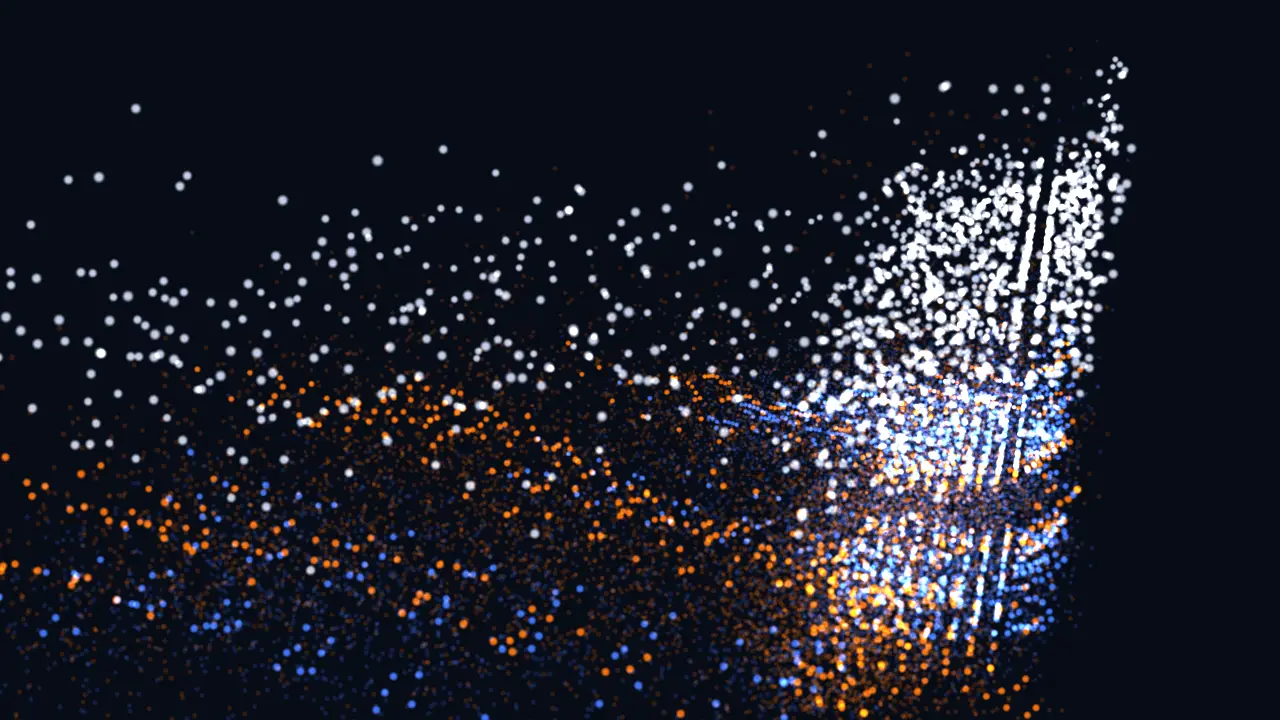
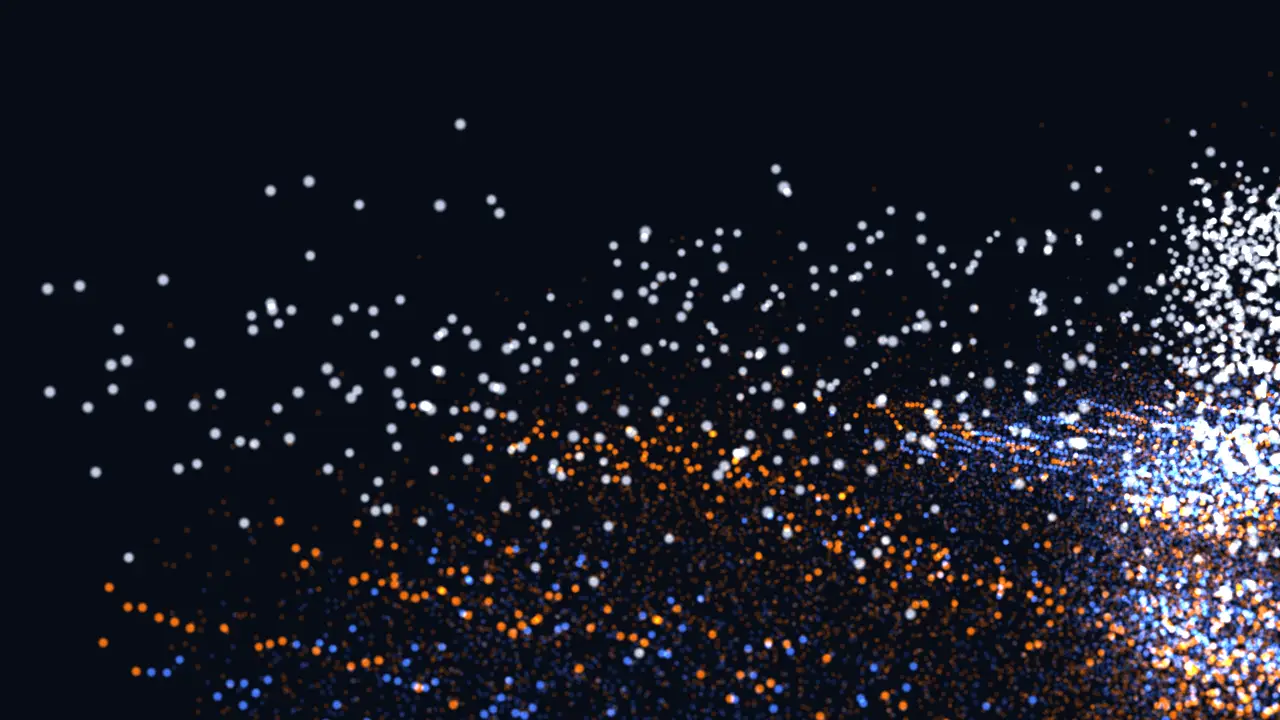
docs: record plan 6-1; regenerate fallbacks after camera moves

diff --git a/CLAUDE.md b/CLAUDE.md
@@ -4,7 +4,7 @@ ML 엔지니어 포트폴리오 사이트. 사이트 브랜드는 **SIGNAL**.
 
 Awwwards / FWA 수준의 인터랙티브 디자인을 가진 **취업·이직용 개발자 포트폴리오**. 목표 포지션은 **ML 엔지니어**.
 
-## 현재 상태 (2026-09-28, 맥미니에서 작업 후 정리)
+## 현재 상태 (2026-09-28, 맥북에서 계획 6-1 구현 후 정리)
 
 계획 1·2·3·4-1·4-2·5-1·5-2가 모두 main에 병합되어 운영 사이트에 배포돼 있다(5-2는 2026-09-28 병합). 남은 것은 5-3(인터랙션)과 공개 전 준비.
 
@@ -21,6 +21,7 @@ Awwwards / FWA 수준의 인터랙티브 디자인을 가진 **취업·이직용
 | 4-2 연출·성능 | 3D 판정 대기(LCP), 로딩 화면, 플립 글자판, 제목 리빌, Lenis | `2026-09-24-plan-4-2-motion.md` | ✅ PR #4 |
 | 5-1 구조 개편 | 섹션 목록, ①~④ 새 섹션, 플립 보드, 옆 목차, 개인 소개 이동 | `2026-09-25-plan-5-1-structure.md` | ✅ PR #5 (2026-09-27 병합·배포) |
 | 5-2 차트 | ② 두 화면·판 없는 보드, ③ 점 와플, ④ 점 달력·구간별 벌떼·불확실성 구름, 배경 점 → 차트 | `2026-09-27-plan-5-2-charts.md` | ✅ PR #6 (2026-09-28 병합·배포) |
+| 6-1 배치 정리 | 글·차트 자막 방식, 글 뒤 판 제거(장면 구도·비네트), 와플 설명 한 줄 | `2026-09-28-plan-6-1-layout.md` | ✅ (PR 대기) |
 
 계획 5-3(인터랙션)이 남았다. 설계: `docs/superpowers/specs/2026-09-25-page-restructure-design.md`
 
@@ -30,11 +31,11 @@ Awwwards / FWA 수준의 인터랙티브 디자인을 가진 **취업·이직용
 
 ## 다음 세션에서 할 일 (순서대로)
 
-0. **★ 먼저: 운영 사이트에서 계획 5-2 결과 확인** — https://signal-ml-portfolio.vercel.app (PR #6, 2026-09-28 main 병합)
-   - 사용자가 볼 것: ③ 와플(3D 점이 와플로 모임, 마우스를 올리면 피처 이름), ④ 차트 1 점 달력·2 구간별 벌떼(U자)·4 불확실성 구름(점과 이름표가 겹치는지), ② 두 화면(지도가 안 가려지는지, 판 없는 보드), 휴대폰
-   - 고칠 점이 있으면 새 브랜치에서 고쳐 PR로(작업 방식 참고)
-   - 5-2에서 사용자 대신 정한 것(되돌리기 쉬움): 그림 판 고정 구간을 CSS `::after` 50vh로, `<html>`의 활성 장면 표시는 `data-active-scene`, 차트 1 문구는 "일요일 출발일"(일 +20%·토 +3%), 차트 4 낭독 설명에서 "먼 출발일일수록 넓어진다" 삭제(데이터상 아님), 휴대폰 벌떼에서 칸을 넘치는 점은 그리지 않음, 달력 원 3D 색이 2D보다 조금 하얗게 보이는 것(가산 합성)은 그대로 둠. 자세한 내용은 설계 문서 "구현 결과 (계획 5-2)"
-1. **다음: 계획 5-3 계획서 작성** (`superpowers:writing-plans`, 실행은 subagent-driven-development — 사용자가 5-1·5-2에서 고름) — 설계 §4.1:
+0. **★ 계획 6-1(배치 정리)은 브랜치 `plan-6-1-layout`에 구현 완료 — PR·CI 확인 → 사용자 확인 → main 병합**
+   - 설계: `docs/superpowers/specs/2026-09-28-night-airport-and-layout-design.md`(밤의 공항 첫 화면 + 배치 정리, 2026-09-28 사용자 승인). 시안 `docs/superpowers/mockups/2026-09-28/`. 구현 결과는 설계 문서 "구현 결과 (계획 6-1)"
+   - 다음: **계획 6-2(밤의 공항 첫 화면, 로딩 `NOW BOARDING`)** 계획서를 `superpowers:writing-plans`로 쓴다(설계 §4). 그 뒤 아래 5-3(인터랙션)
+   - `board.spec`의 "화면에 들어오면 넘어가고…" e2e는 main에서도 가끔 실패한다(로컬 6회 중 3회). 고칠 거리로 남겨 둠
+1. **계획 5-3 계획서 작성(6-2 뒤)** (`superpowers:writing-plans`, 실행은 subagent-driven-development — 사용자가 5-1·5-2에서 고름) — 설계 §4.1:
    - 점이 마우스에 반응(모든 장면, 휴대폰은 누른 곳에서 물결 한 번), 차트에서는 미는 거리를 줄임
    - ③ 와플 눌러 **SHAP 벌떼**로 펼치기(초점·Enter/Space·Esc, 한 번에 하나). SHAP 값 추출 포함: 항공권 저장소 `src/models/shap_analysis.py`처럼 `v2_predictor.pkl` + `booster.predict(pred_contribs=True)`(재학습 없음), 피처 33개 × 표본 약 150개를 `charts.json`의 `shap`으로. 범주형 피처(노선·항공사)는 값 색 대신 중간색
    - 차트 직접 만지기: 차트 1·4는 마우스를 올리면 가장 가까운 출발일 강조 + 표시 상자, 차트 2는 세로선 슬라이더(구간 8개, `role="slider"`), 키보드 ←/→·Home/End, 조작 멈춘 뒤 한 번 알림
@@ -85,8 +86,8 @@ Awwwards / FWA 수준의 인터랙티브 디자인을 가진 **취업·이직용
 
 ### 페이지 구성 (한 페이지 스크롤, 2026-09-25 개편 승인)
 
-0. 로딩 화면: `LOADING 242,874 ROWS` 플립 카운터
-- 첫 화면: 점들이 모여 가격 지형이 되고 마우스에 반응. 이름, `ML ENGINEER`, 키워드
+0. 로딩 화면: `LOADING 242,874 ROWS` 플립 카운터 (계획 6-2에서 `NOW BOARDING`으로 바뀐다 — 설계 2026-09-28 §4.3)
+- 첫 화면: 점들이 모여 가격 지형이 되고 마우스에 반응. 이름, `ML ENGINEER`, 키워드 (계획 6-2에서 밤의 공항으로 바뀐다 — 설계 2026-09-28 §4)
 1. `01 — PROJECT`: 큰 질문 + 설명 + 숫자 4개(노선·수집 개월·피처·예측 구간)
 2. `02 — DATA COLLECTION`: 두 화면 — (1) 수집 라인 4단계 + 한·일 지도, (2) 판 없는 공항 플립 보드(왕복 3줄 + TOTAL, 약 2초·튕김 — 모션 규칙 예외) + 흐려진 지도
 3. `03 — FEATURES`: 피처 33개, 6개 그룹을 점 와플로(5-2에서 배경 점이 와플로 모임, 5-3에서 눌러 SHAP 벌떼로 펼치기)

diff --git a/docs/superpowers/specs/2026-09-28-night-airport-and-layout-design.md b/docs/superpowers/specs/2026-09-28-night-airport-and-layout-design.md
@@ -138,6 +138,22 @@
 - **6-1**: e2e — 그림 판 블록에서 글 상자와 그림 판 상자가 어떤 스크롤 위치에서도 겹치지 않는다(bounding box), 글 뒤 배경이 투명하다, 와플 그룹에 마우스를 올리면 설명 줄에 그 그룹 이름이 나오고 다른 그룹 이름표는 흐려진다, 기존 axe 검사 통과.
 - **6-2**: 단위 — 공항 배치 생성(불빛 개수, 모든 불빛이 지형 점에 배정됨, 빨간색은 경고등 하나뿐), 장면 표의 A → B 보간. e2e — 로딩 화면에 `NOW BOARDING`, 첫 화면 → ① 스크롤 시 활성 장면 전환, 대체 이미지 모드에서 `hero.webp`. 용량 검사(`npm run size`) 통과.
 
+## 구현 결과 (계획 6-1)
+
+- **자막 띠**: `.chart-copy`를 sticky로(데스크톱 61vh, 휴대폰 55vh) 고정하고, `src/motion/caption.ts`가 투명도와 문단 칸(`.chart-para.is-on`)을 정한다. 블록은 문단 하나당 50vh씩 더 고정된다(`--paras`). ③은 세 칸(설명 → lookup 주의 → 도구)이다. 자막 스크립트는 움직임 줄이기·3D 꺼짐에서도 돈다(계획에서 정함. §2는 "그때는 문단이 흐른다"고 했었다). 화면 낭독기는 모든 문단을 읽는다.
+- **글 뒤 판 제거**: `.text-scrim`과 챕터 그라데이션 판을 지웠다. 글 상자는 `width: fit-content`로 글 크기만큼만 잡고, 첫 화면 줄은 줄마다 자기 글자 폭이다.
+  - 글 쪽 장면(about·bubble·validation·limits·demo·contact)은 카메라와 목표점을 함께 x −5로 옮겼다. 첫 화면(hero)만 −6.5다.
+  - 데모·연락처는 dim 0.45다.
+  - 3D 배경 위에 경계 없는 비네트를 깐다(`.backdrop::after`: 38% 지점부터 알파 0.8까지, 차트 장면에서는 끔).
+  - 휴대폰에서는 아래쪽만 옅게 어둡게 하고(0.85 → 0, 50%), 글은 화면 아래로 정렬한다. 점은 위로 올린다(글 쪽 장면의 카메라와 목표점 y를 −3만큼 내림, validation은 위에서 내려다보는 장면이라 예외). 카메라−목표점 벡터는 데스크톱의 1.6배를 유지하고 단위 테스트로 지킨다.
+  - bubble은 휴대폰에서 떨어지는 제거 레이어가 문단 뒤를 지나가서 목표점을 −3까지 내렸다.
+- **와플 강조**:
+  - 배치에 `waffle`(그룹 번호)을 더했다. 저장소 `setFocus`/`getFocus`를 거쳐 셰이더 `aWaffle`·`uFocus`로 전한다. 2D와 3D는 같은 규칙이다(강조 그룹은 호박색, 나머지는 알파 × `FOCUS_DIM` 0.25, 이 상수는 `charts/types.ts` 한 곳에 있다). 휴대폰은 누를 때마다 켜고 끈다.
+  - 이름표 자리는 실측한 높이로 잡았다. `WAFFLE.labelPx { wide: 76, narrow: 50 }`, `detailPx { wide: 76, narrow: 120 }`이다.
+  - 좁은 판에서는 이름표를 줄인다(비율과 이름만. 개수는 설명 줄에 있다). 설명 줄은 이름표 바로 아래에 둔다.
+- **알려진 한계**: 가로로 짧은 화면(예: 844×390)에서는 글 상자가 판 아래 띠(61vh 고정)보다 길어질 수 있다. 이때 "코드 보기" 링크는 블록이 떠날 때에야 보인다. 나중에 고칠 후보는 글 높이를 제한하거나 `svh` 단위를 쓰는 것이다.
+- **검사 결과(2026-09-28)**: 단위 테스트 256개 통과. e2e는 154개 중 153개 통과했다. 실패한 1개(`board.spec` "화면에 들어오면 넘어가고…", 데스크톱)는 main에서도 6번 중 3번 실패하는, 원래 불안정한 테스트다. 초기 JS 141.2KB/150KB, 3D 청크 241.1KB/250KB. 화소 대비 검사는 데스크톱과 휴대폰에서 각각 2~3회 반복해 모두 통과했다.
+
 ## 8. 범위 밖
 
 - 5-3 인터랙션(점 마우스 반응, SHAP 벌떼, 차트 만지기) — 별도 계획, 6-2 뒤
